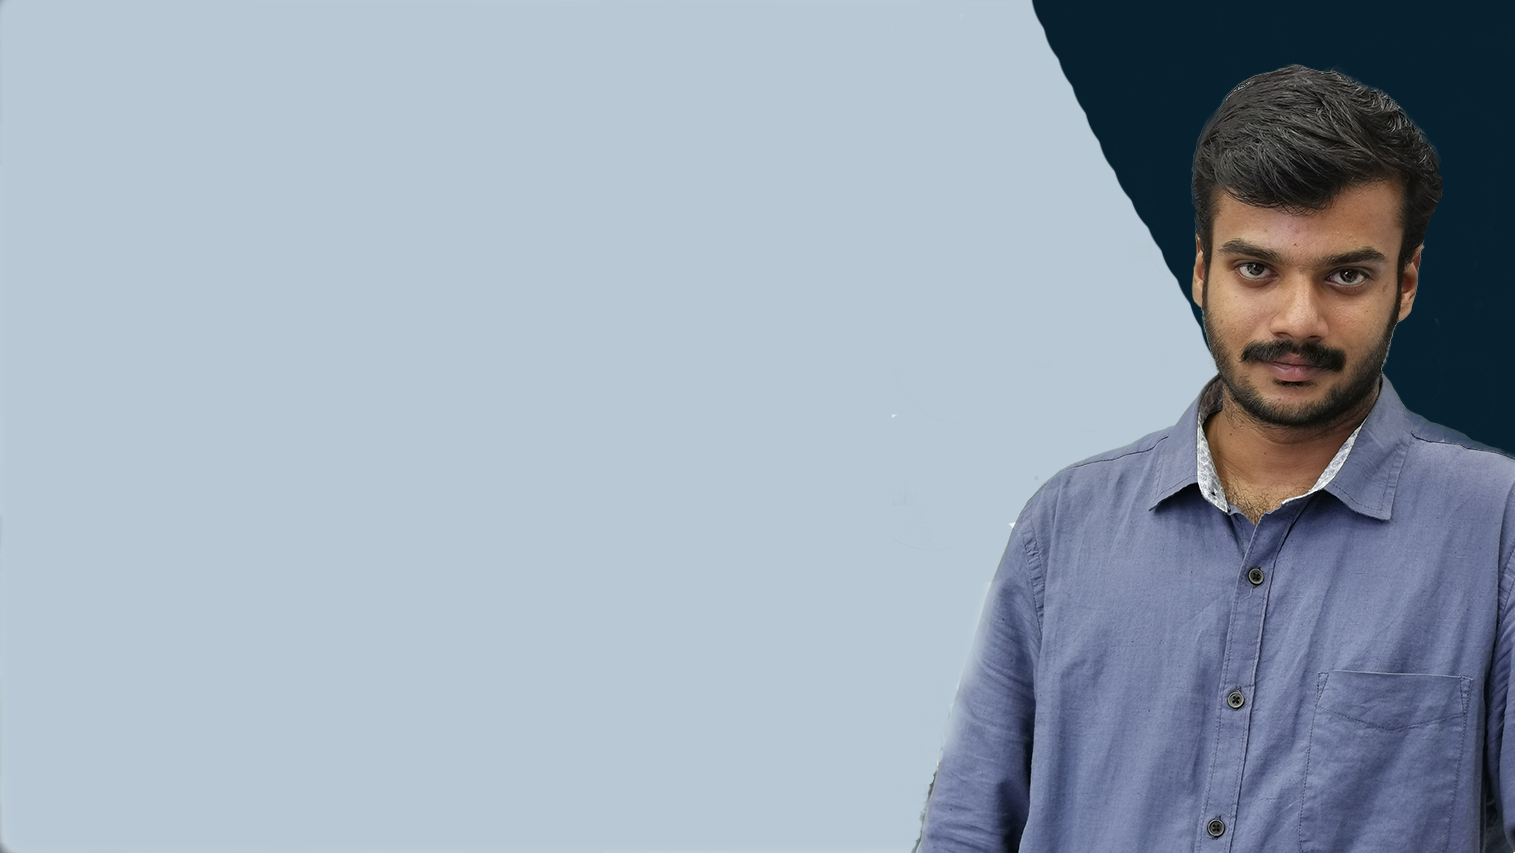
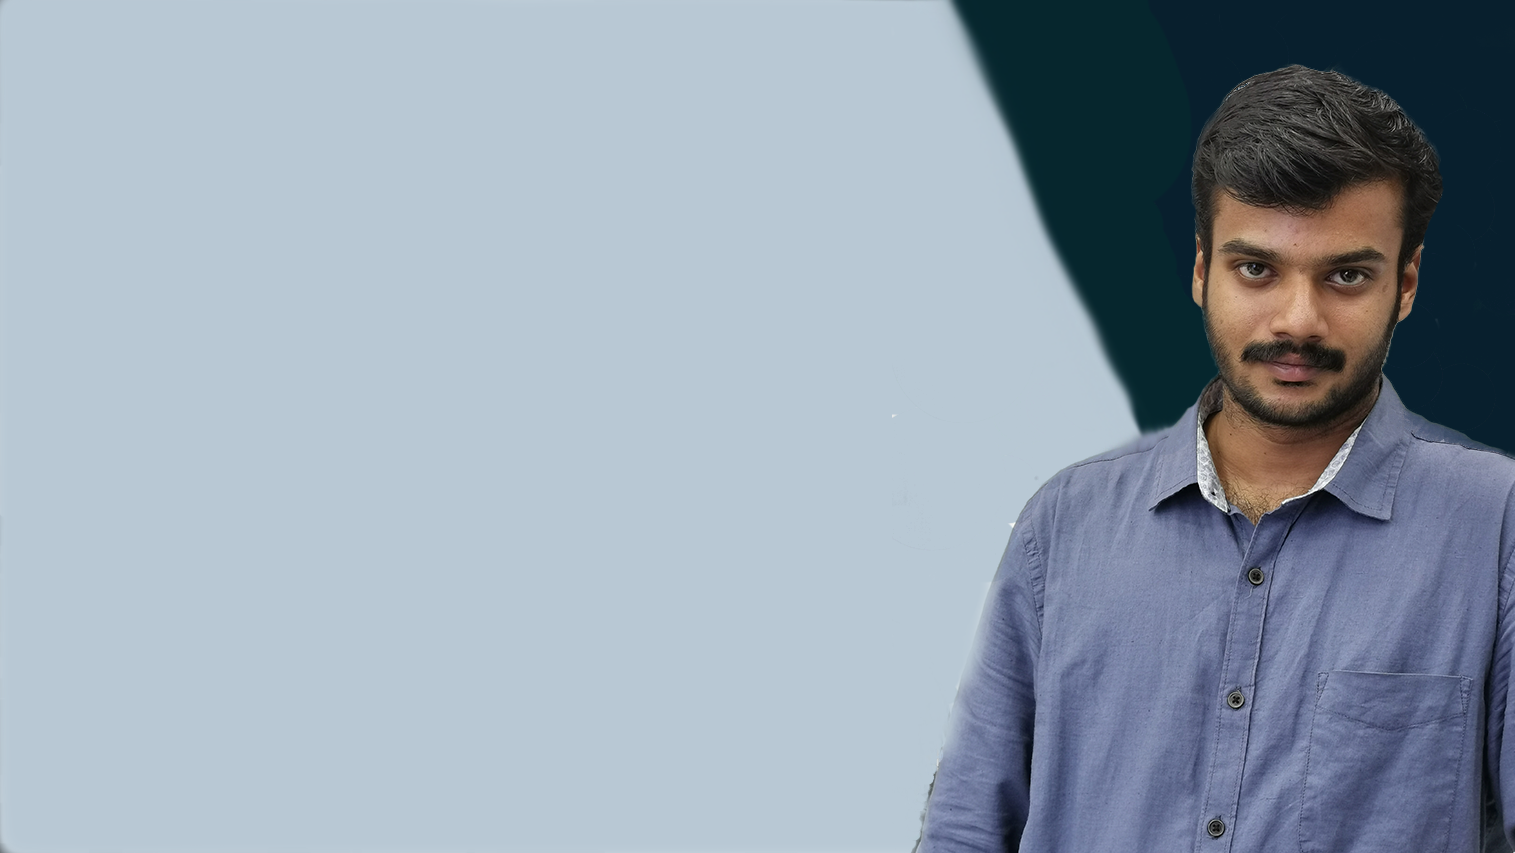
bg

Changed region(s): [[0.6205, 0.0, 0.8066, 0.5182]]

diff --git a/CSS/new_style.css b/CSS/new_style.css
@@ -6,7 +6,7 @@ body {
   margin: 0;
   padding-top: 10%;
   padding-left: 5%;
-  background:url(/img/profile_cover_bg.png) no-repeat;
+  background:url(/img/showcaseFormat.jpg) no-repeat;
  
 background-attachment: unset;
 background-size: cover;
